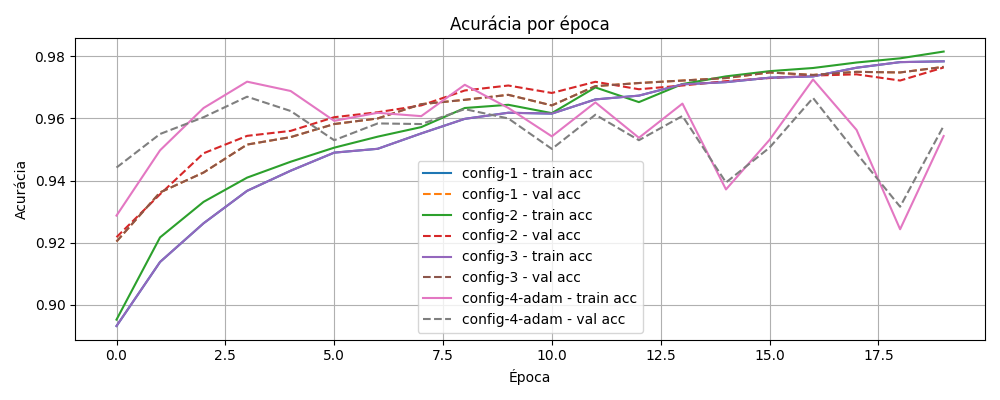
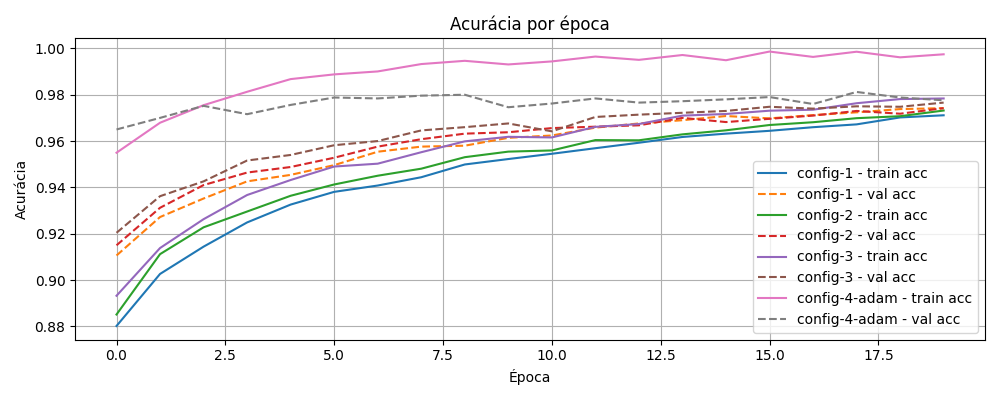
fix: corrige a explosão de valores do teste config-3

diff --git a/train.py b/train.py
@@ -145,6 +145,11 @@ def train_model(
             f"val_loss={val_loss:.4f} val_acc={val_acc:.4f} | "
             f"{elapsed:.1f}s"
         )
+
+        if not np.isfinite(train_loss) or not np.isfinite(val_loss):
+            print("Perda divergiu para NaN/inf; interrompendo o treinamento deste experimento.")
+            break
+
     return history
 
 # Função para plotar os gráficos de perda e acurácia para comparação entre diferentes configurações de treinamento
@@ -222,7 +227,7 @@ def run_experiments():
         {
             "label": "config-3",
             "layers": [784, 128, 64, 10],
-            "lr": 0.04,
+            "lr": 0.03,
             "epochs": 20,
             "batch_size": 128,
         },
@@ -248,11 +253,14 @@ def run_experiments():
             optimizer=config.get("optimizer", "sgd"),
         )
         history = train_model(
-                model,
-                X_train,
-                y_train_onehot,
-                X_val,
-                y_val_onehot,
+            model,
+            X_train,
+            y_train_onehot,
+            X_val,
+            y_val_onehot,
+            epochs=config.get("epochs", 20),
+            lr=config.get("lr", 0.03),
+            batch_size=config.get("batch_size", 128),
         )
         histories.append(history)
         test_loss, test_acc = model.evaluate(X_test, y_test_onehot)

diff --git a/README.md b/README.md
@@ -1,4 +1,4 @@
-# MLP - Classificação de Dígitos (MNIST)
+# MLP - Classificação de Dígitos (MNIST)
 
 ## Visão geral do projeto
 O projeto contempla a implementação de um Multi-Layer Perceptron do zero em NumPy para classificar dígitos do MNIST. O foco é entender o funcionamento interno da rede e não depender de frameworks de deep learning.
@@ -621,3 +621,6 @@ Foi testado a mudança no learning rate
 
 ---
 
+- quando rodei o ADAM, a curva apresentou um comportamento estranho, pois o experimento não estava passando o lr certo para train_model.
+O config-4-adam estava definido com lr=0.001, mas o train_model() não recebia lr=config["lr"].
+Isso fazia o Adam treinar com a taxa padrão 0.03, o que pode gerar curvas estranhas e instabilidade.